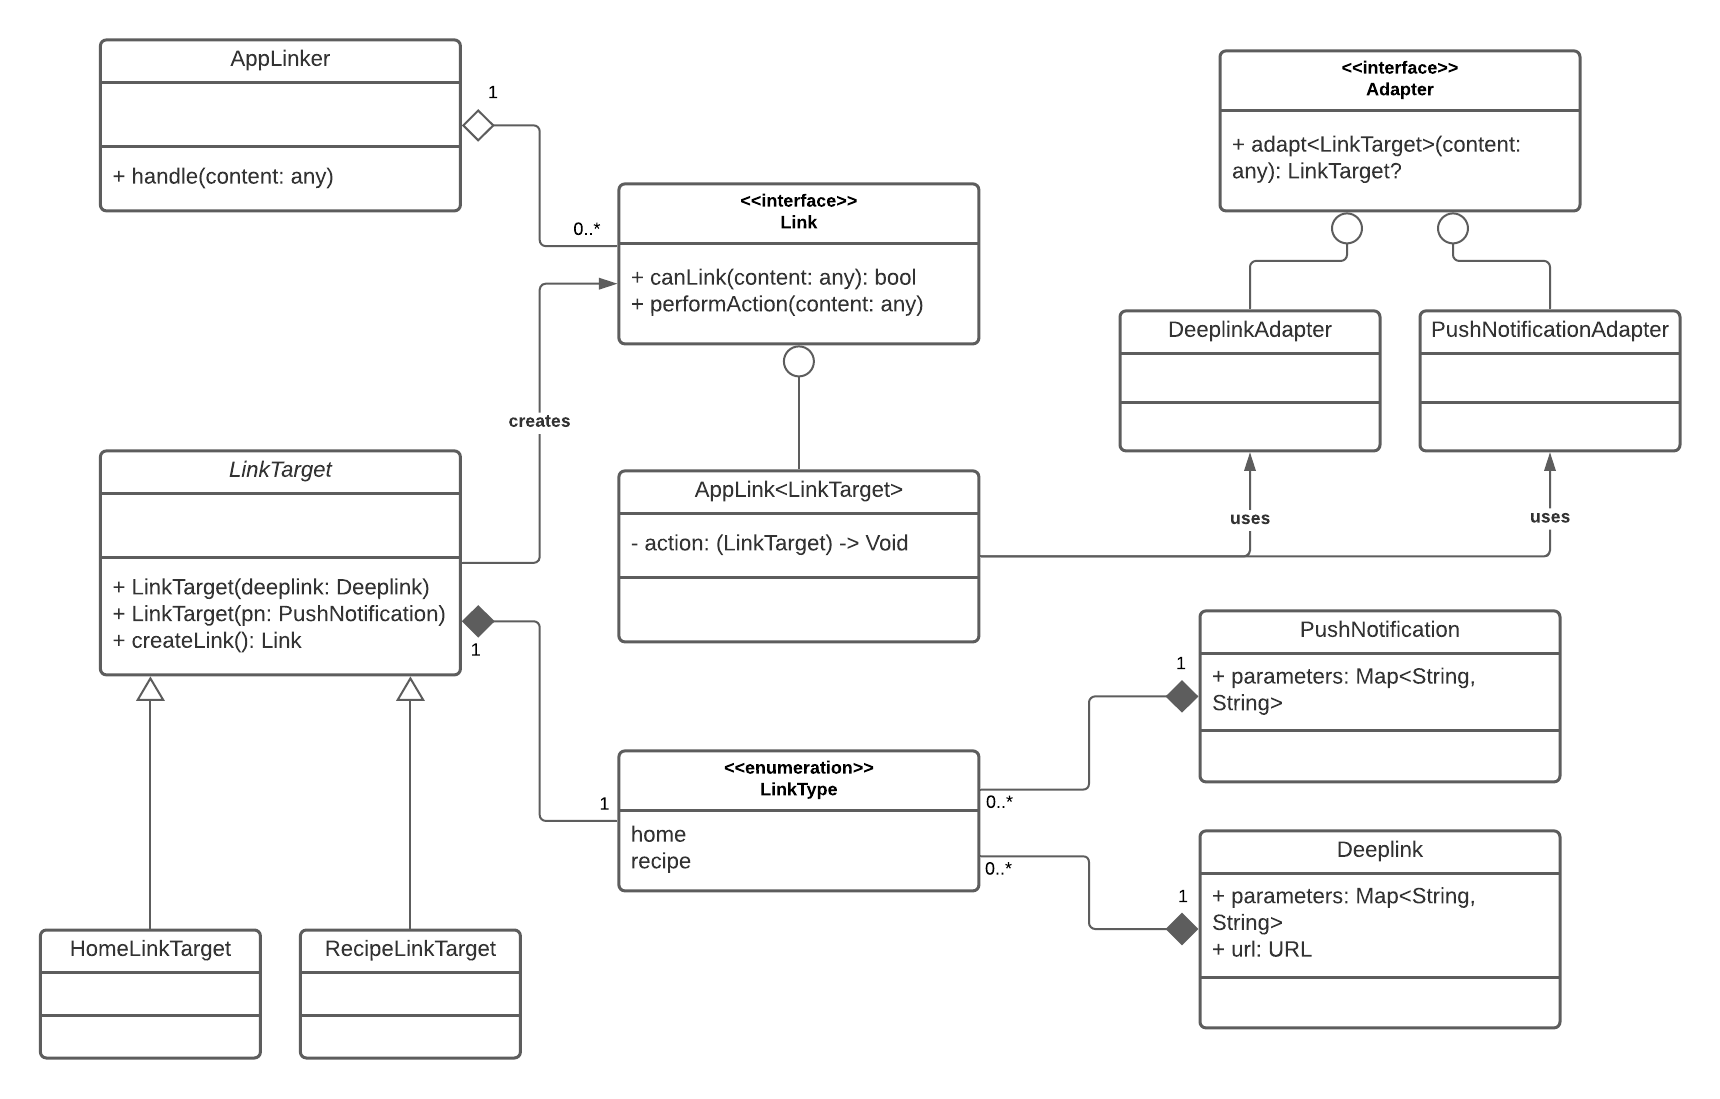
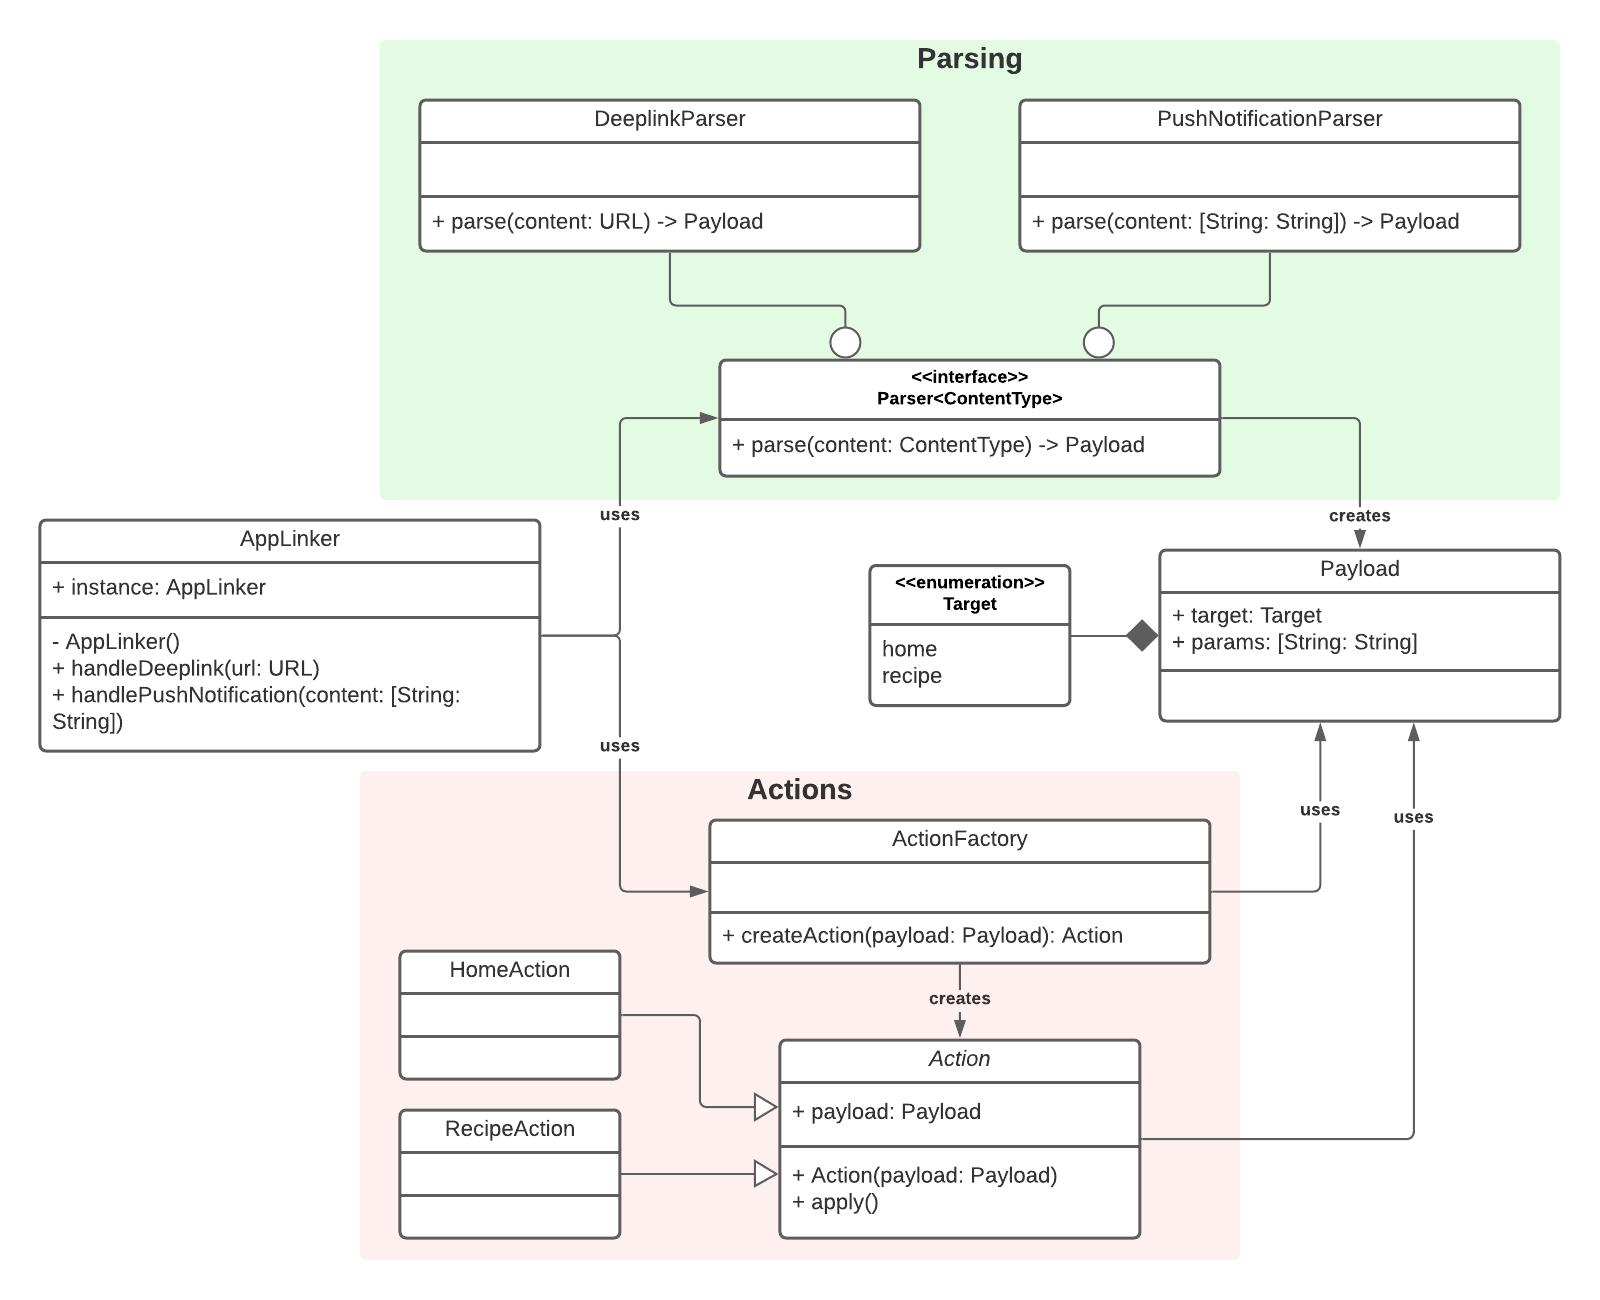
doc: update the readme

Changed region(s): [[0.0312, 0.0309, 1.0, 0.99], [0.0312, 0.8353, 0.1562, 0.9281], [0.0312, 0.9591, 0.1562, 0.99]]

diff --git a/readme.md b/readme.md
@@ -15,15 +15,15 @@ The code is available at https://github.com/antoine-cottineau/app_linker.
 
 Before diving into how the module is structured, let's briefly describe what deeplinks and push notifications are.
 
-A deeplink is a special kind of link that, when opened in a browser of a mobile phone, opens a specific screen of a native application. For example, for a company that provides a website and an application dedicated to weather forecasts, a deeplink could be used to open the screen of the app that shows the weather forecast for a specific day. If the user doesn't have the app installed or isn't on mobile, then the corresponding webpage can be opened in the browser. On iOS, deeplinks are called [universal links](https://developer.apple.com/ios/universal-links/) but we'll keep the term deeplink because it is more general.
+A deeplink is a special kind of link that, when opened in the browser of a mobile phone, opens a specific screen of a native application. For example, for a company that provides a website and an application dedicated to weather forecasts, a deeplink could be used to open the screen of the app that shows the weather forecast for a specific day. If the user doesn't have the app installed or isn't on mobile, then the corresponding webpage can be opened in the browser. On iOS, deeplinks are called [universal links](https://developer.apple.com/ios/universal-links/) but we'll keep the term deeplink because it is more general.
 
-A push notification is a piece of data that can be sent from a backend to a mobile device. It often provide information to the user and can also encourage them to perform an action. For example, a football app may send push notifications to its users whenever a goal is scored in a match. By tapping on the push notification, the user would expect the app to open the screen that shows the match.
+A push notification is a piece of data that can be sent from a backend to a mobile device. It often provide information to the user and can also encourage them to perform an action. For example, a football app may send push notifications to its users whenever a player is transfered from one club to another. By tapping on the push notification, the user would expect the app to open the screen that shows the match.
 
 Both deeplinks and push notifications are a good way to enrich an app. As the action performed when opening a deeplink or when tapping a push notification is often the same, it makes sense to create a single module for handling both structures.
 
 ## 2. A simple example
 
-To keep the implementation concrete, we chose to design the module for a fictional recipe app called `bestrecipes`. This app could for example contain recipes that are posted by chefs, a way for the user to follow chefs, a grading system for the recipes...
+To keep the implementation concrete, we choose to design the module for a fictional recipe app called `bestrecipes`. This app could for example contain recipes that are posted by chefs, a way for the user to follow chefs, a grading system for the recipes...
 
 We'll focus on implementing deeplinks and push notifications that can either link to a homefeed or to a "recipes" screen. Here are some examples of possible deeplinks and push notifications:
 
@@ -53,240 +53,195 @@ Push notification:
 {"type": "recipe", "country": "FR", "limit": 7}
 ```
 
-
-
 ## 3. The module
 
 The following picture is a UML class diagram of the module:
 
 ![UML class diagram](./images/app_linker.png)
 
-Even if the diagram can make the module appear complex, the logic behind how the module isn't complicated. We'll study various parts of the module in the following sections.
+We'll study the various parts of the module in the following sections.
 
 ### 3.1 Models
 
-We use two simple models to represent respectively deeplinks and push notifications:
+As deeplinks and push notifications can be used to perform the same actions, they should also be able to contain the same information. So, instead of creating a model for deeplinks and one for push notifications, we abstract the concepts in a `Payload` structure.
 
 ```swift
-// PushNotification.swift
-struct PushNotification {
-    let type: LinkType
+// Payload.swift
+struct Payload {
+    let target: Target
     let parameters: [String: String]
 }
 ```
 
-```swift
-// Deeplink.swift
-struct Deeplink {
-    let type: LinkType
-    let parameters: [String: String]
-    let url: URL
-}
-```
-
-As you can see, the two models have a `type` field of type `LinkType`. `LinkType` is just an enumeration that lists the possible types of deeplinks/push notifications:
+As you can see, a `Payload` keeps a dictionary of parameters and has a field of type `Target`, which is just an enum that lists all the possible screens that can be reached by a deeplink or a push notification:
 
 ```swift
-// LinkType.swift
-enum LinkType: String {
+// Target.swift
+enum Target: String {
     case home
     case recipe
 }
 ```
 
-### 3.2 LinkTarget and adapters
+ In our example, we only support two screens (home and recipes) but we can always extend the module by adding more cases.
 
-`LinkTarget` is a protocol that represents a possible destination of a deeplink or a push notification. Two classes implement `LinkTarget`: `HomeLinkTarget` and `RecipeLinkTarget`.
+### 3.2 Parsing
+
+The first action the module should perform is to parse the incoming deeplink or push notification into an instance of `Payload`. To do so, we define a protocol that describes the ability to parse an object into a `Payload`:
 
 ```swift
-// LinkTarget.swift
-protocol LinkTarget {
-    /// The type of the link.
-    static var type: LinkType { get }
+// Parser.swift
+protocol Parser {
+    associatedtype InputType
 
-    /// A failable initializer that constructs the instance if the inputted deeplink corresponds to the target.
-    /// Otherwise, it returns nil.
-    init?(deeplink: Deeplink)
-
-    /// A failable initializer that constructs the instance if the inputted push notification corresponds to the target.
-    /// Otherwise, it returns nil.
-    init?(pushNotification: PushNotification)
+    /// Parse the `content` into a `Payload`.
+    /// If the `content` is missing some required elements, the function returns nil.
+    /// - Returns: An instance of `Payload` or nil if the `content` can't be parsed.
+    func parse(content: InputType) -> Payload?
 }
 ```
 
-A class implementing `LinkTarget` should possess two failable initializers that constructs an instance if and only if the inputted deeplink or push notification possesses enough information. For example, here is how one of the initializer or `RecipeLinkTarget` is implemented:
+The associated type corresponds to the input type of the parser. For example, the following classes are implementation of `Parser` whose associated types are respectively `URL` and `[String: String]`:
 
 ```swift
-// RecipeLinkTarget.swift
-class RecipeLinkTarget: LinkTarget {
-    static var type: LinkType = .recipe
-
-    private let id: String?
-    private let country: String?
-    private let limit: Int?
-
-    required init?(deeplink: Deeplink) {
-        id = deeplink.parameters["id"]
-        country = deeplink.parameters["country"]
-        if let limitValue = deeplink.parameters["limit"] {
-            limit = Int(limitValue)
-        } else {
-            limit = nil
-        }
-    }
-}
-```
-
-In this example, each field is nullable. However, if a field is mandatory for a specific link and it is missing from the deeplink/push notification, then the initializer should return nil.
-
-These two initializers take a `Deeplink` or `PushNotification` for input. However, when receiving a deeplink or a push notification, the app would only receive a string that needs to be converted to one of the models. That's the role of adapters:
-
-```swift
-// Adapter.swift
-protocol Adapter {
-    /// Parse the provided content and returns a Target if the parsing was possible.
-    /// - Returns: An instance of Target.
-    func adapt<Target: LinkTarget>(content: Any) -> Target?
-}
-```
-
-The only goal of the function `adapt` is to create a `LinkTarget` with the inputted content. For example, here is how the `DeeplinkAdapter` does it:
-
-```swift
-// DeeplinkAdapter.swift
-class DeeplinkAdapter: Adapter {
-    func adapt<Target: LinkTarget>(content: Any) -> Target? {
-        guard let urlString = content as? String,
-              let url = URL(string: urlString),
-              let type = LinkType(rawValue: url.pathComponents[1]),
-              type == Target.type
-        else {
+// DeeplinkParser.swift
+class DeeplinkParser: Parser {
+    func parse(content: URL) -> Payload? {
+        guard let target = Target(rawValue: content.pathComponents[1]) else {
             return nil
         }
 
         var parameters = [String: String]()
-        URLComponents(url: url, resolvingAgainstBaseURL: false)?.queryItems?.forEach { queryItem in
+        URLComponents(url: content, resolvingAgainstBaseURL: false)?.queryItems?.forEach { queryItem in
             parameters[queryItem.name] = queryItem.value
         }
 
-        let deeplink = Deeplink(type: type, parameters: parameters, url: url)
-
-        return Target(deeplink: deeplink)
+        return Payload(target: target, parameters: parameters)
     }
 }
 ```
 
-The `DeeplinkAdapter` tries to extract the `LinkType` that corresponds to the inputted content. If this type is the expected one, then an instance of `TargetLink` is created.
+```swift
+// PushNotificationParser.swift
+class PushNotificationParser: Parser {
+    func parse(content: [String: String]) -> Payload? {
+        guard let targetString = content["target"],
+              let target = Target(rawValue: targetString)
+        else {
+            return nil
+        }
+        
+        return Payload(target: target, parameters: content)
+    }
+}
+```
 
-### 3.3 Putting things together
+### 3.3 Creating actions
 
-Up to this point, it is possible to parse an incoming deeplink or push notification and to create a corresponding `LinkTarget`. However, there is still no code for describing what action should be made when the user opens a deeplink or tap on a push notification. For example, if the user taps on a push notification saying "Discover the last recipe by Chef Martin", it would be expected that the screen corresponding to the recipe would open.
-
-To encapsulate such actions, we create the interface `Link` and a class implementing it: `AppLink`:
+Once the parsing has been done, the next step is to perform the action that corresponds to the parsed `Payload`. To do so, we define a simple `Action` protocol:
 
 ```swift
-// Link.swift
-protocol Link {
-    /// Get whether or not the content can be handled by this link.
-    /// - Returns: Whether or not the content can be handled by this link.
-    func canLink(content: Any) -> Bool
+// Action.swift
+protocol Action {
+    /// Use the `payload` to perform an action.
+    func run(payload: Payload)
+}
+```
 
-    /// Perform an action that corresponds to the inputted content.
-    func performAction(content: Any)
+Each class implementing `Action` should provid a run method that performs a specific task. For example, here are `HomeAction` and `RecipeAction`:
+
+```swift
+class HomeAction: Action {
+    func run(payload: Payload) {
+        MockedActionMaker.instance.lastAction = "home"
+    }
 }
 ```
 
 ```swift
-// Link.swift
-class AppLink<Target: LinkTarget>: Link {
-    /// The action that the link performs.
-    private let action: (Target) -> Void
+class RecipeAction: Action {
+    func run(payload: Payload) {
+        // Parse the parameters of the payload.
+        let id = payload.parameters["id"]
+        let country = payload.parameters["country"]
+        let limit: Int?
+        if let limitValue = payload.parameters["limit"] {
+            limit = Int(limitValue)
+        } else {
+            limit = nil
+        }
 
-    init(action: @escaping (Target) -> Void) {
-        self.action = action
+        // Create the action
+        var action = "recipe"
+        if let id = id {
+            action += " id=\(id)"
+        }
+        if let country = country {
+            action += " country=\(country)"
+        }
+        if let limit = limit {
+            action += " limit=\(limit)"
+        }
+        MockedActionMaker.instance.lastAction = action
     }
+}
+```
 
-    func canLink(content: Any) -> Bool {
-        let adapterResults: [Target?] = [DeeplinkAdapter().adapt(content: content), PushNotificationAdapter().adapt(content: content)]
-        return !adapterResults.compactMap { $0 }.isEmpty
-    }
+Finally, we create an `ActionFactory` that is used to get the correct implementation of `Action` depending on a given `Payload`:
 
-    func performAction(content: Any) {
-        let adapterResults: [Target?] = [DeeplinkAdapter().adapt(content: content), PushNotificationAdapter().adapt(content: content)]
-        if let target = adapterResults.compactMap({ $0 }).first {
-            action(target)
+```swift
+// ActionFactory.swift
+class ActionFactory {
+    /// Create an `Action` that corresponds to the `payload`.
+    /// - Parameter payload: The input `Payload`.
+    /// - Returns: An instance of `Action`.
+    func createAction(payload: Payload) -> Action {
+        switch payload.target {
+        case .home:
+            return HomeAction()
+        case .recipe:
+            return RecipeAction()
         }
     }
 }
 ```
 
-These two structures help abstract what is a deeplink and a push notification: a link should be able to parse some content and perform an action.
+### 3.4 Putting things together
 
-We then need to add a way to create `AppLink`. A possible way to do so would be to create a factory whose responsability would be to create one link for each possible `LinkType`.
-
-For simplicity reasons, we chose to perform the link creation in the `LinkTarget` classes by adding a new function to the protocol:
+The final step is too combine the parsing and the creation of an action in a single place. Thus, we create an `AppLinker` which should be the entry point of the module:
 
 ```swift
-// LinkTarget.swift
-protocol LinkTarget {
-    // Other functions...
-
-    /// A method used to create a link for this target.
-    /// - Returns: An instance of a class implementing Link.
-    static func createLink() -> Link
-}
-```
-
-As an example, here is how a link is created in `HomeLinkTarget`:
-
-```swift
-// RecipeLinkTarget.swift
-class RecipeLinkTarget: LinkTarget {
-    // Fields and initializers...
-
-    // Create a Link for everything that is related to recipes
-    static func createLink() -> Link {
-        return AppLink<Self> { target in
-            // Use the parameters of target to present some recipes
-            var action = "recipe"
-            if let id = target.id {
-                action += " id=\(id)"
-            }
-            if let country = target.country {
-                action += " country=\(country)"
-            }
-            if let limit = target.limit {
-                action += " limit=\(limit)"
-            }
-            print(action)
-        }
-    }
-}
-```
-
-The function use the provided instance of `RecipeLinkTarget` to define the action to perform. In a real app, a screen showing one or several recipes could be displayed, depending on the values of `id`, `country` and `limit`.
-
-We still have to create one last thing: an entry point to the module:
-
-```swift
-// AppLinker.swift
 public class AppLinker {
     public static var instance = AppLinker()
 
-    /// The list of links that should be matched against the content that is received by the AppLinker.
-    private let links: [Link] = [HomeLinkTarget.createLink(), RecipeLinkTarget.createLink()]
+    /// Try to parse the `url` and perform the corresponding action.
+    /// - Parameter url: The url to handle.
+    public func handleDeeplink(url: URL) {
+        guard let payload = DeeplinkParser().parse(content: url) else {
+            return
+        }
+        handlePayload(payload)
+    }
 
-    /// Try to parse the content and trigger the corresponding action.
-    /// The method tries to parse the content as one of the registered links and, if the parsing is successful, the link's action is triggered.
-    /// - Parameter content: The content that should be parsed. It can either be a url (deeplink) or a dictionary of strings/strings (push notification).
-    public func handle(content: Any) {
-        let matchedLink = links.first { $0.canLink(content: content) }
-        matchedLink?.performAction(content: content)
+    /// Try to use the `content` to perform an action.
+    /// - Parameter content: The content to use.
+    public func handlePushNotification(content: [String: String]) {
+        guard let payload = PushNotificationParser().parse(content: content) else {
+            return
+        }
+        handlePayload(payload)
+    }
+
+    /// Use the `payload` to perform an action.
+    /// - Parameter payload: An instance of Payload.
+    private func handlePayload(_ payload: Payload) {
+        let action = ActionFactory().createAction(payload: payload)
+        action.run(payload: payload)
     }
 }
 ```
 
-The `AppLinker` is a public singleton that can be accessed from anywhere in the app. It stores a list of links and whenever some content is received, we test if one of the links can handle it. If so, we perform the action of the corresponding link.
+The code is pretty simple: `AppLinker` has two public methods, one for handling deeplinks and the other for handling push notifications. Both methods start by parsing their input into a `Payload` and then run the corresponding action.
 
 ## 4. Conclusion
 
